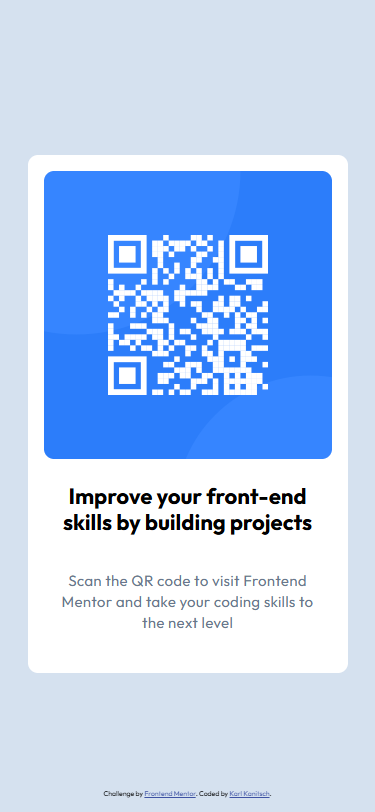
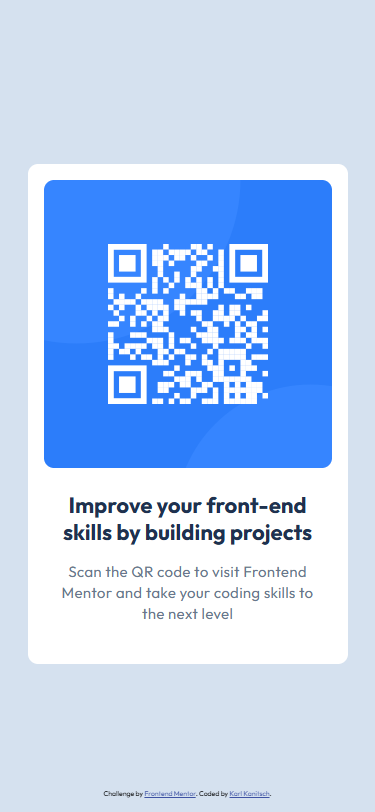
Updating the screenshots yet again

diff --git a/css/style.css b/css/style.css
@@ -48,7 +48,7 @@ h1 {
 	font-size: 2.2em;
 	font-weight: bold;
 	line-height: 1.2;
-	margin: 0 0 1.6em;
+	margin: 0 0 1rem;
 }
 
 p {
